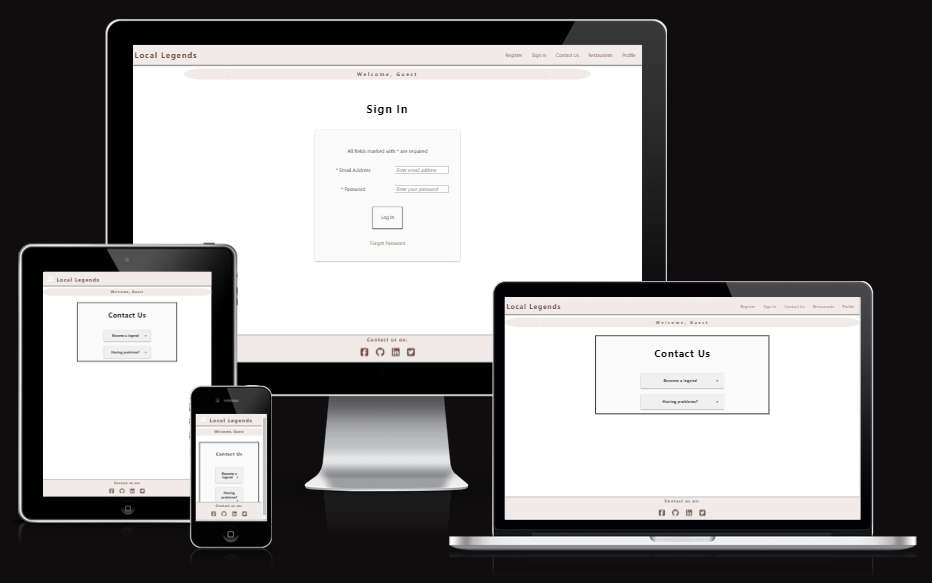
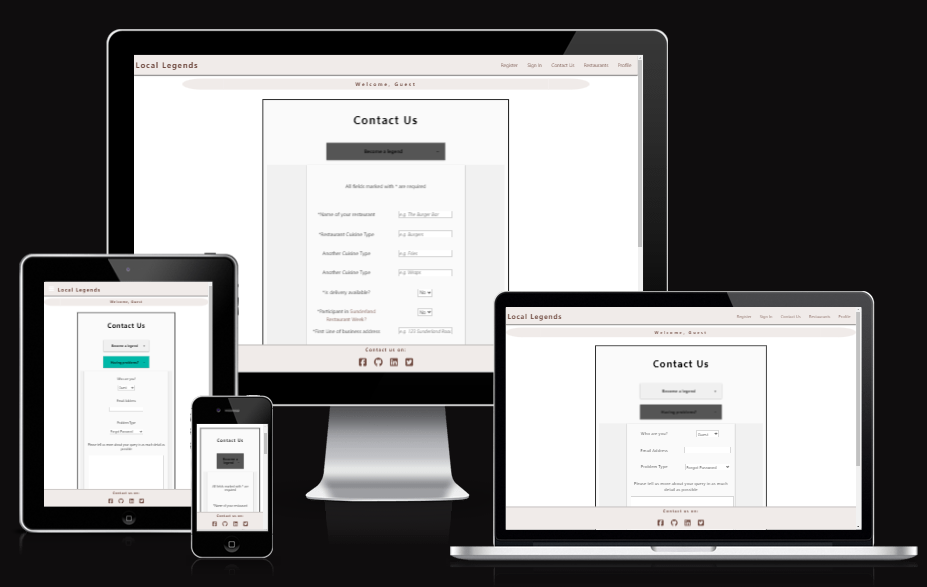
UPDATED readme with content, UPDATED index to correct alt text error

Changed region(s): [[0.0, 0.0309, 0.9968, 0.9571]]

diff --git a/local_legends/templates/index.html b/local_legends/templates/index.html
@@ -138,7 +138,8 @@
   <div class="row">
     <div class="col align-center s12 m12 l6 xl6">
       <div class="col hero-image-div">
-        <img alt="An image unique to this restaurant" 
+        <img
+          alt="An image unique to this {{ restaurants_snippet.restaurant_name }}"
           class="hero-image-thumb"
           src="{{ restaurants_snippet.restaurant_image_url }}"
         />
@@ -198,7 +199,8 @@
               <!--THIS IS THE START OF THE FIRST HALF OF THE CONTAINER-->
               <div class="col s12 m12 l12 xl6 left-panel-container">
                 <div class="col align-center s12 hero-image-div">
-                  <img alt="An image unique to this restaurant" 
+                  <img
+                    alt="An image unique to this restaurant"
                     class="hero-image"
                     src="{{ restaurants_snippet.restaurant_image_url }}"
                   />

diff --git a/README.md b/README.md
@@ -59,10 +59,10 @@
         - [Problems](#problems)
         - [Approvals](#approvals)
         - [Edit Restaurant](#edit-restaurant)
-      - [Contact Us](#contact-us)
-      - [Restaurants](#restaurants-1)
-      - [Restaurant Profile / Leave Review](#restaurant-profile--leave-review)
-      - [Home](#home)
+    - [Contact Us](#contact-us)
+    - [Restaurants](#restaurants-1)
+    - [Restaurant Profile / Leave Review](#restaurant-profile--leave-review)
+    - [Home](#home)
     - [Register](#register)
     - [Sign In](#sign-in)
     - [404 page](#404-page)
@@ -70,6 +70,8 @@
     - [WAVE Report](#wave-report)
       - [Errors](#errors)
       - [Empty Links](#empty-links)
+      - [Justified Text](#justified-text)
+      - [Nearby image has same alt text](#nearby-image-has-same-alt-text)
     - [Contrast Ratio](#contrast-ratio)
   - [Justifications and reflections](#justifications-and-reflections)
     - [Justifications](#justifications)
@@ -702,33 +704,54 @@ This section is to approve all reqwuests by businesses to have their restaurant 
 
 Once a restaurant is approved by an admin the admin can then change aspects of the restaurant, from the image URL to the address. This could be to correct an error or a request from the restaurant using COntact Us
 
-#### Contact Us
+### Contact Us
 
-This is a simple form that the user, guest or business owner can fill out to contact the admin team. It is used to report a problem, ask a question or make a request, including to ask their restaurant to be placed on Local Legends. Each request is sent to the Admin portal
+![Contact Us](/local_legends/static/images/responsive/responsive-contact.png)
 
-#### Restaurants
+This is a simple form that the user, guest or business owner can fill out to contact the admin team. It is used to report a problem, ask a question or make a request, including to ask their restaurant to be placed on Local Legends. Each request is sent to the Admin portal. It does not require the user to login and is guided by user choice where each section expands depending on this
 
-Once a restaurant has been approved by an admin, it will appear on the Restaurants page. The user will select the restaurant then click different sections to see more, and also have the ability to leave a review.
+### Restaurants
 
-#### Restaurant Profile / Leave Review
+![Contact Us](/local_legends/static/images/responsive/responsive-restaurants.png)
 
-This page is more information about the restaurant and this is where a user or guest can view all reviews for that restaurant.
+Once a restaurant has been approved by an admin, it will appear on the Restaurants page. The user will select the restaurant then click different sections to see more, and also have the ability to leave a review. Again, it is very much user-selection-centered
 
-#### Home
+### Restaurant Profile / Leave Review
+
+(Again, I have not been able to show this page via 'Am I Responsive' as the user is required to login to leave a review)
+
+![Leave Review Desktop](/local_legends/static/images/responsive/responsive-leave-review-desktop.png)
+
+![Leave Review Tablet](/local_legends/static/images/responsive/responsive-leave-review-tablet.png)
+
+![Leave Review Mobile](/local_legends/static/images/responsive/responsive-leave-review-mobile.png)
+
+![See Reviews](/local_legends/static/images/responsive/responsive-leave-review-see-reviews.png)
+
+After selecting 'Leave Review' on the Restaurants or Home selections, the user is directed to restauran-profile.html / Leave Review. It will allow the user to leave their own review and view other reviews for that restaurant
+
+
+### Home
+
+![Home](/local_legends/static/images/responsive/responsive-home.png)
 
 The home screen introduces the user to the site. It explains the website aims and how to use it. It also has a small selection of restaurants to get the user started. It's a trimmed-down version of the Restaurants page. From here the user can link to almost all parts of the website (except admin portal)
 
 ### Register
 
+![Register](/local_legends/static/images/responsive/responsive-register.png)
+
 This page is one of the simplist. It asks the user for an email address, username and password. They all have the same validation as described above
 
 ### Sign In
+
+![Sign In](/local_legends/static/images/responsive/responsive-login.png)
 
 The user will enter their email address and password to log in. If they have forgotten the password, they click "Forgot Password". It will then link them to Contact Us, where they select the Forgot Password selection. The request is then stored in the Problems table to flash up on the Admin Portal
 
 ### 404 page
 
-Using [GitHub's](https://docs.github.com/en/pages/getting-started-with-github-pages/creating-a-custom-404-page-for-your-github-pages-site) documtation on creating a 404 page, I have placced this file in the root directory.
+Using [GitHub's](https://docs.github.com/en/pages/getting-started-with-github-pages/creating-a-custom-404-page-for-your-github-pages-site) documtation on creating a 404 page, I have placced this file in the root directory. It will present the user with a notification telling them that an error occured. It still contains the full template and nav bar so the user can choose where to navigate.
 
 ***
 
@@ -754,33 +777,21 @@ I have used [WebAIM's WAVE report](https://wave.webaim.org/) to assess the acces
 
 #### Empty Links
 
-This error was picked up in the nav bar that is activated only oin smaller screens. The WAVE checker thought that the link was empty. However this was not the case, as the link activated the JavaScript when clicked, and had the "fa fas bars" i class attached to it. This gave the user something to click. I've added an aria-label to this element 
+This error was picked up in the nav bar that is activated only oin smaller screens. The WAVE checker thought that the link was empty. However this was not the case, as the link activated the JavaScript when clicked, and had the "fa fas bars" i class attached to it. This gave the user something to click. I've added an aria-label to this element.
 
+#### Justified Text
 
+The report suggests that I remove the justified text as it can sometimes be difficult to read paragraphs of text with fully-justified blocks. However it also mentions that there are no guidelines or standards for this. Therefore, it's only a suggestion and not something my text is required to adhere to. To that end, I have decided not to take that suggestion onboard.
 
+#### Nearby image has same alt text
 
+This alert was telling me that the alt text for the restaurant images was the same. This is correct. Each restaurant image has the following text
 
-
-
-
-
-
-
-
-
-
-
-
-
-
-
-
-
-There were 9 errors that required attention. The completed actions were taken then the report ran again.
+There were no other errors identified.
 
 For reference please see the WAVE report below:
 
-![Summary](/local_legends/static/accessibility/wave-report-summary.webp)
+![Summary](/local_legends/static/accessibility/wave-report-summary-final.webp)
 
 ![Details](/local_legends/static/accessibility/wave-report-details.webp)
 
